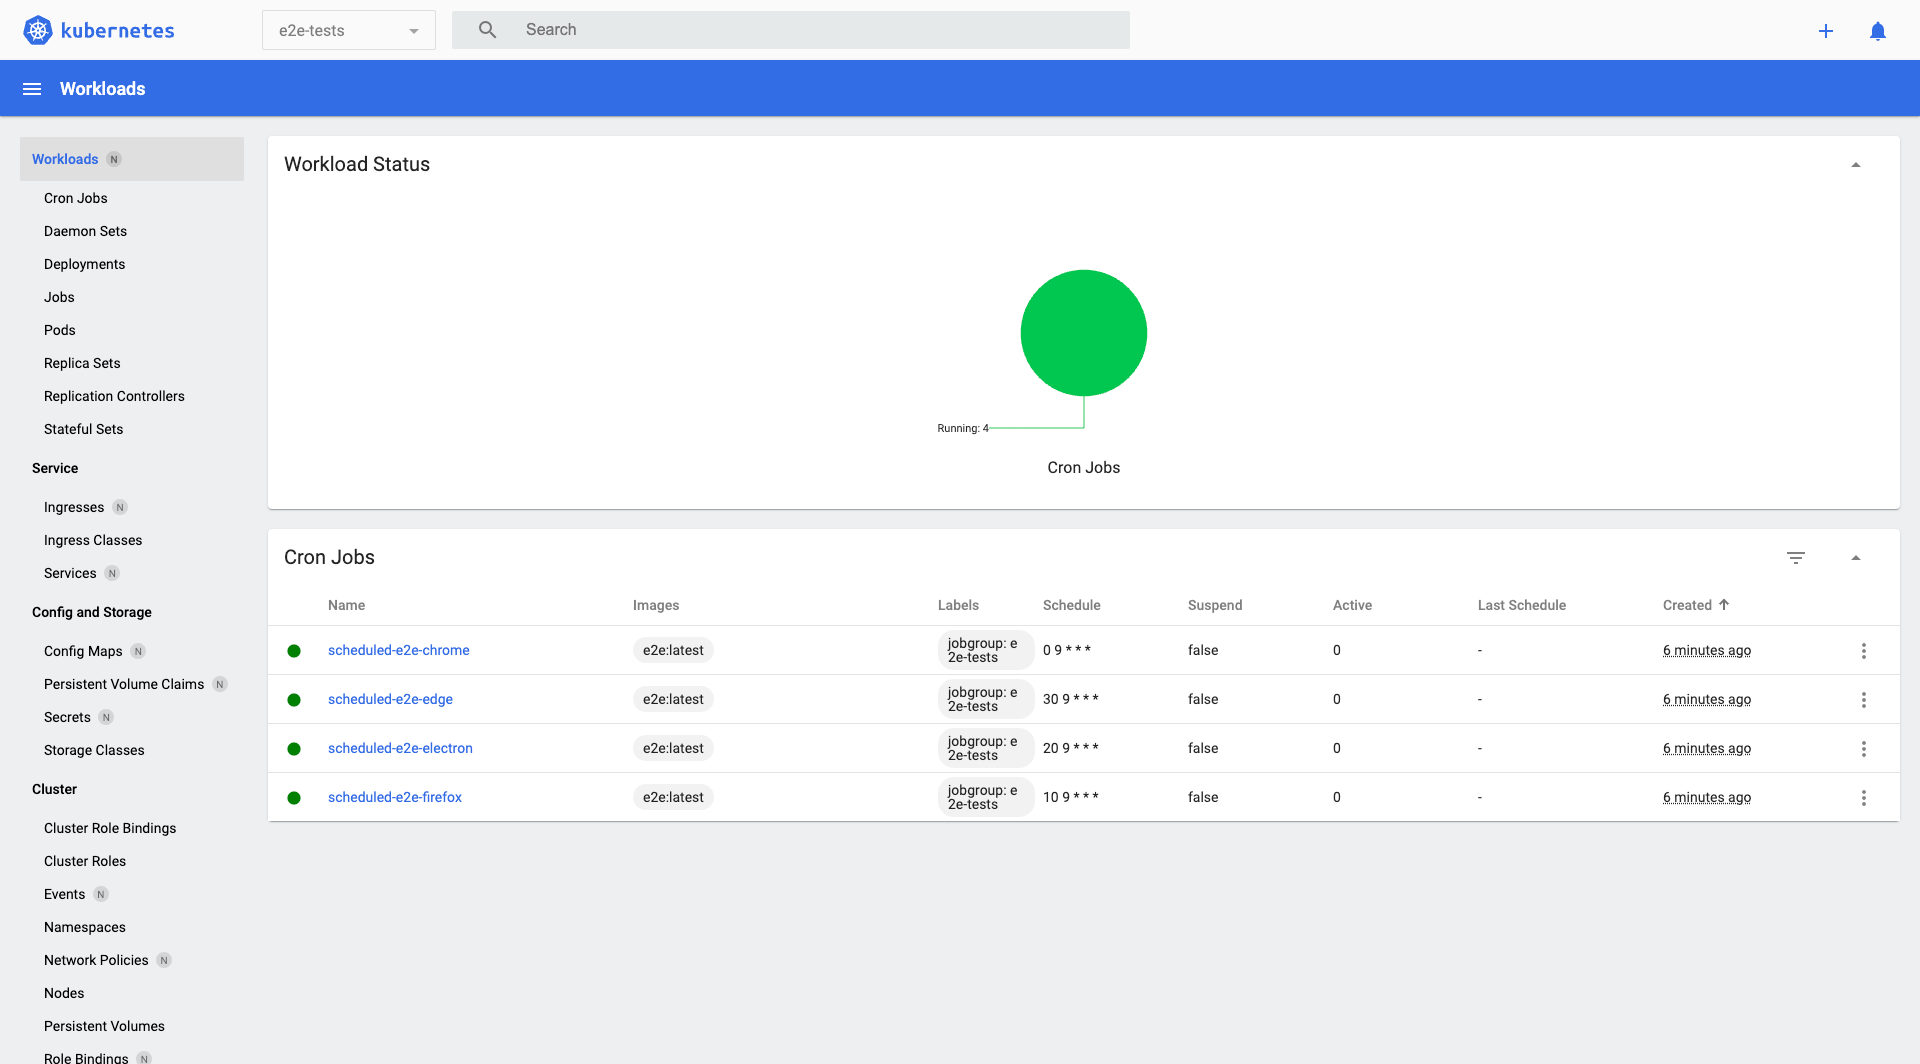
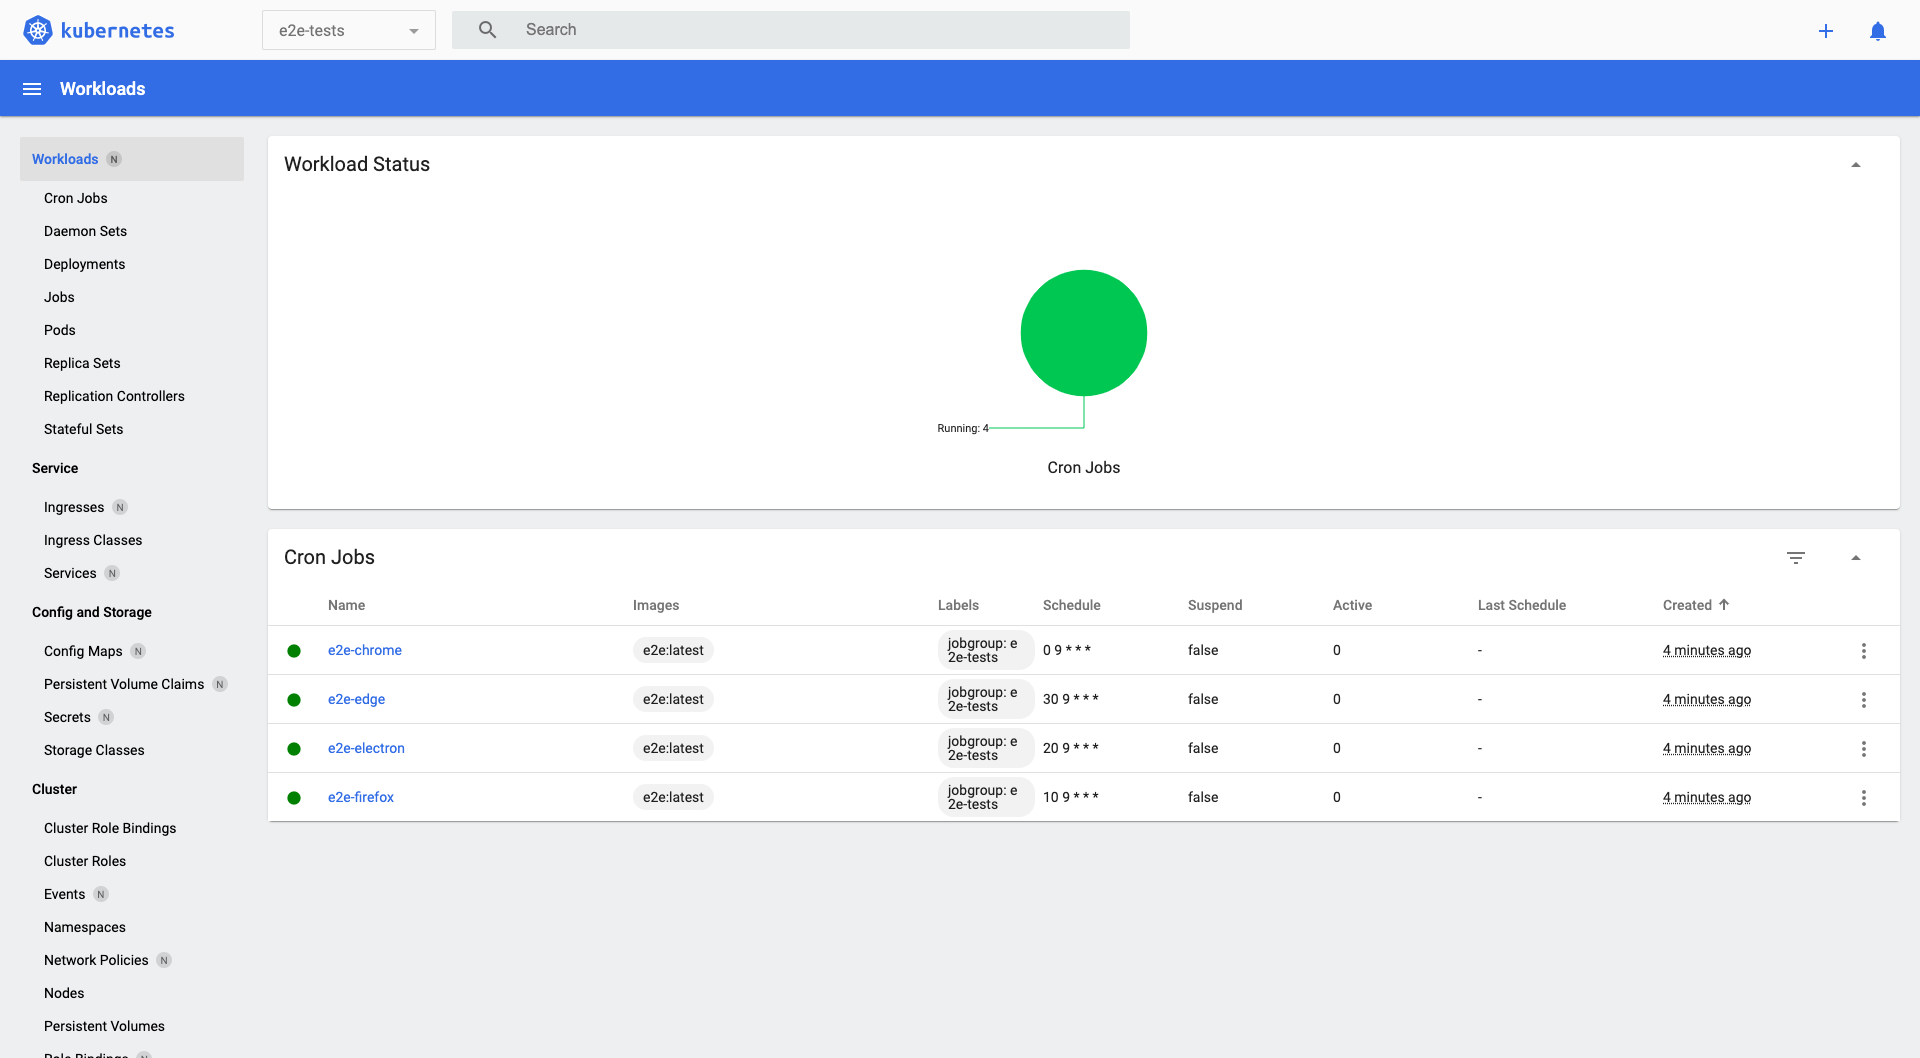
Updated Minikube readme

diff --git a/docs/execute-e2e-minikube.md b/docs/execute-e2e-minikube.md
@@ -57,15 +57,30 @@ To check status of E2E Tests Cron Jobs:
 
 Each of E2E Tests Cron Jobs is configured to run on specific browser and with 2 parallel Cypress Agents. Than configuration is located in [e2e-tests.yml](/.kube/e2e-tests.yml) file.
 
-To see the list of all configured Cron Jobs: Open Minikube Dashboard > Change namespace to `e2e-tests` > Navigate to Cron Jobs on left side panel.
+To see the list of all configured Scheduled Cron Jobs: Open Minikube Dashboard > Change namespace to `e2e-tests` > Navigate to Cron Jobs on left side panel.
+
+>To see the list of all configured Scheduled Cron Jobs using terminal, use >bellow command:
+>
+>     kubectl get cronjob --namespace=e2e-tests
 
 To see the list of all running or finished Jobs: Open Minikube Dashboard > Change namespace to `e2e-tests` > Navigate to Jobs on left side panel. On Jobs panel you can also monitor logs of running Cypress Agent (which are running as Kubernetes pods).
+
+>To see the list of all running or finished Jobs using terminal, use bellow command:
+>
+>     kubectl get jobs --namespace=e2e-tests
 
 E2E Tests Cron Jobs can also be triggered manually by clicking on 3 dots button next to Cron Job and click on Trigger button.
 
 ![E2E Tests Cron Jobs Manual Trigger](/docs/imgs/minikube-dashboard-manual-trigger.gif)
 
+>To manually trigger E2E Tests Cron Jobs using terminal, use bellow command:
+>
+>     kubectl create job --from=cronjob/<name-of-cron-job> <name-of-job> --namespace=e2e-tests
+
+Where `<name-of-cron-job` is `e2e-[chrome|firefox|edge|electron]` and  `<name-of-job>` can be whatever name you want to give to the job.
+
 Progress and results can be also followed on Sorry-Cypress Dashboard `http://kube.local:8080` under run named the same as running or finished job name:
 
-- for scheduled jobs `scheduled-e2e-[chrome|firefox|edge|electron]-########`
-- for manually triggered jobs `scheduled-e2e-[chrome|firefox|edge|electron]-manual-###`.
+- for scheduled jobs `e2e-[chrome|firefox|edge|electron]-########`
+- for manually triggered jobs via Minikube Dashboard `e2e-[chrome|firefox|edge|electron]-manual-###`.
+- for manually triggered jobs via terminal look for the name passed as `<name-of-job>` in terminal command
